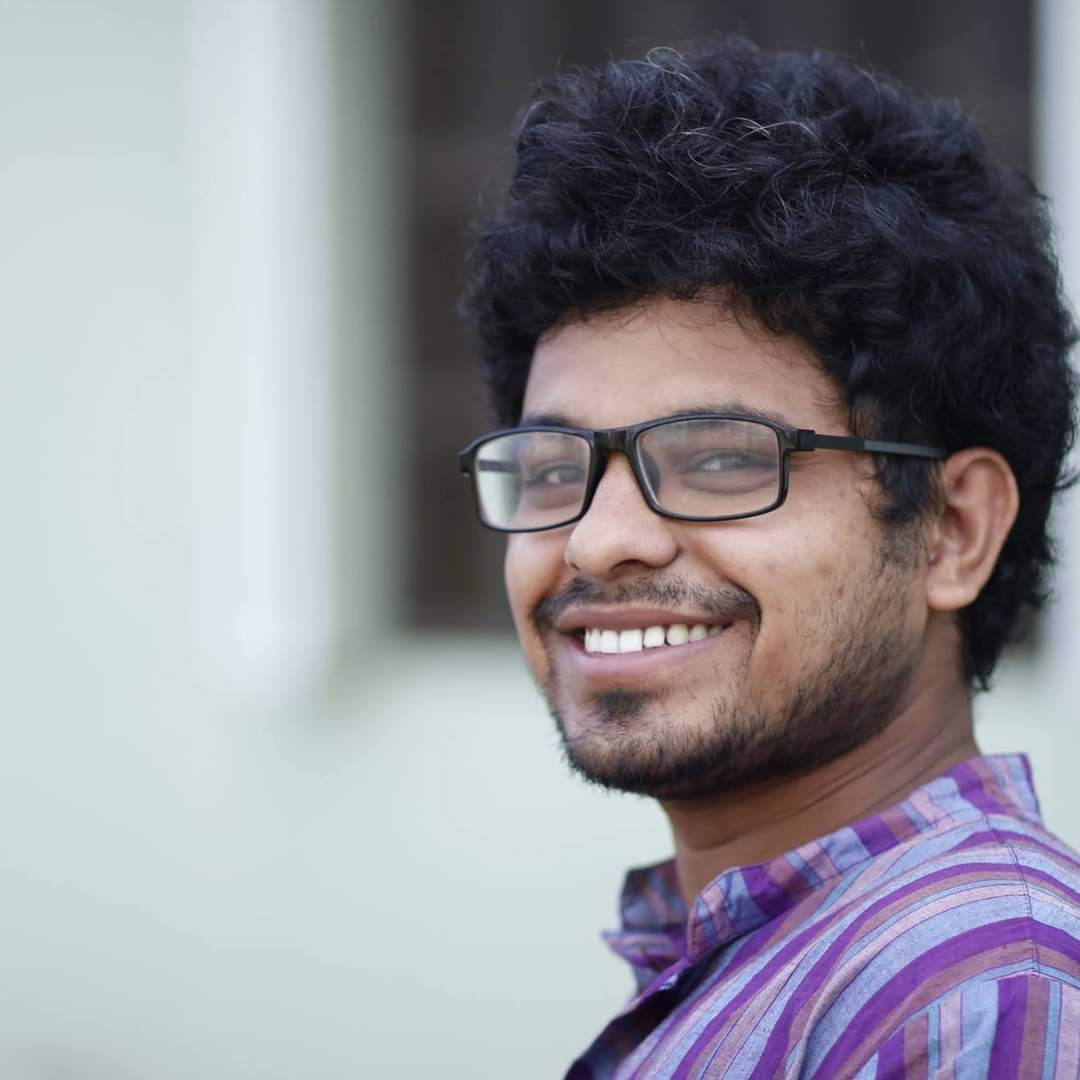
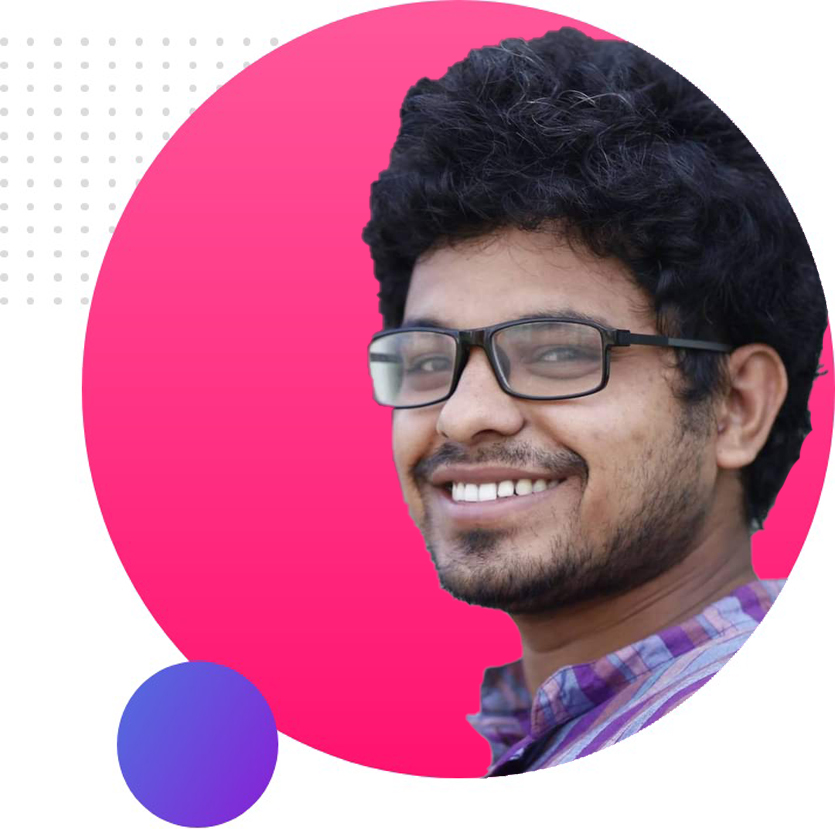
push it

diff --git a/index.html b/index.html
@@ -9,17 +9,57 @@
 <link href="https://fonts.googleapis.com/css2?family=Poppins:wght@100;200;400&display=swap" rel="stylesheet">
 <link rel="stylesheet" href="style.css">
 </head>
-<body>
-<section>
+<body >
+<section  class="top-banner">
     <div class="half-width">
-        <h1>Welcome to </h1>
-        <h1> <span class="name-highlight">Shahadat's</span> woorld</h1>  
-        <h3>World class professional web designer and a pharmacist</h3>
+        <h1>Welcome to <br>
+         <span class="orange-highlight">Shahadat's</span> world</h1>  
+        <h3>World class professional web developer and a pharmacist</h3>
         <p>I have a strong background in web development, having worked as a front-end developer for several years. My skills include HTML, CSS and JavaScript. Now I am at a very initial stage as well as a beginer developer and already starting development. But I hope with a very near future i will be a full stack developer. As a pregorammer i enjoy coding as passion.</p>  
+        <a class="link-button" target="_blank" href="https://www.facebook.com/sahadat.nstu">Hire me</a>
     </div>
     <div class="half-width">
         <img src="images/profile.png" alt="">
+        
     </div>
 </section>
+
+<section class="dream-area">
+    <div class="half-width">
+        <img id="address" src="images/address.png" alt="">
+    </div>
+
+    <div class="half-width">
+        <h2>Big dream-area</h2>
+        <h3>Become world's no. 1 developer</h3>
+        <p>I have already learned <b>html, css, Javascript</b>. I can build static and dynamic website using javscript. Now I am taking preparation to learn <B>react js</B>. After completion react Js learning, i will start my joureny in market place as developer. My big dream is to become full stack developer with versatile programming language. </p>
+        <a class="link-button" target="_blank" href="#">Download resume</a>
+    </div>
+</section>
+
+<section class="experience">
+    <h2>Experiences</h2>
+    <div id="pharma" class="single-exp half-width">
+        <h2 >pharmacist: your medicine expert</h2>
+        <h4 class="orange-highlight">2019-present | Industrial Pharmacist.</h4>
+        <p>I worked as production officer in <b>Incepta Vaccine Ltd.</b> for 21 months. Now I am working as Sr. Development QA executive since February 2021 to present in <b>Eskayef Pharmaceuticals Ltd.</b></p>
+    </div>
+    
+
+
+
+    <div id="web" class="single-exp  half-width">
+        <h2>Web development Learner</h2>
+        <h4 class="orange-highlight">September 2023-Present</h4>
+        <p>I am on journey of full stack web development since last quardant of 2023. Now I am taking preparation to start React JS learning. I have already done few project with html, css and Javascript.</p>
+    </div>
+</section>
+
+<footer>
+    <p>© Shahdat Hossain 2024. All rights reserved</p>
+</footer>
 </body>
 </html>
+
+
+

diff --git a/style.css b/style.css
@@ -1,10 +1,16 @@
 body{
     font-family: 'Poppins', sans-serif;
+    margin: 0px;;
 }
 h1{
     font-size: 50px;
+    line-height: 1;
 }
-.name-highlight{
+p{
+    color: dimgray;
+    text-align: justify;
+}
+.orange-highlight{
     color: orange;
 }
 
@@ -20,4 +26,71 @@ h1{
     padding-left: 50px;
     padding-right: 0px;
     padding-top: 30px;    
+}
+
+.top-banner{
+    background-image: url(images/top-banner.png);
+    background-repeat: no-repeat;
+}
+
+.dream-area{
+    background-image: url(images/dream-bg.png);
+    background-repeat: no-repeat;
+    background-position: right;
+}
+
+section{
+    height: 500px;
+    padding-bottom: 150px;
+}
+
+
+.link-button{
+    background-color: orangered;
+    color: aliceblue;
+    padding: 9px 20px;
+    border-radius: 5px;
+    text-decoration: none;
+}
+
+#address{
+    /* height: 420px;
+    width: 280px; */
+    padding-left: 0px;
+}
+
+
+#pharma{
+    padding-top: 0px;
+}
+#web{
+    padding-top: 1px;
+}
+
+.experience{
+    background-image: url(images/exp-bg.png);
+    background-repeat: no-repeat;
+}
+
+.single-exp{
+    box-shadow: 10px 10px 40px grey;
+}
+
+#pharma{
+    border-left: 7px solid;
+    border-image: linear-gradient(180deg,lightSalmon, tomato);
+
+    border-image-slice: 1;
+    background-color: white;
+}
+
+#web{
+    border-left: 7px solid;
+    border-image: linear-gradient(180deg, blue, cyan);
+
+    border-image-slice: 1;
+}
+
+footer p{
+    text-align: center;
 }
